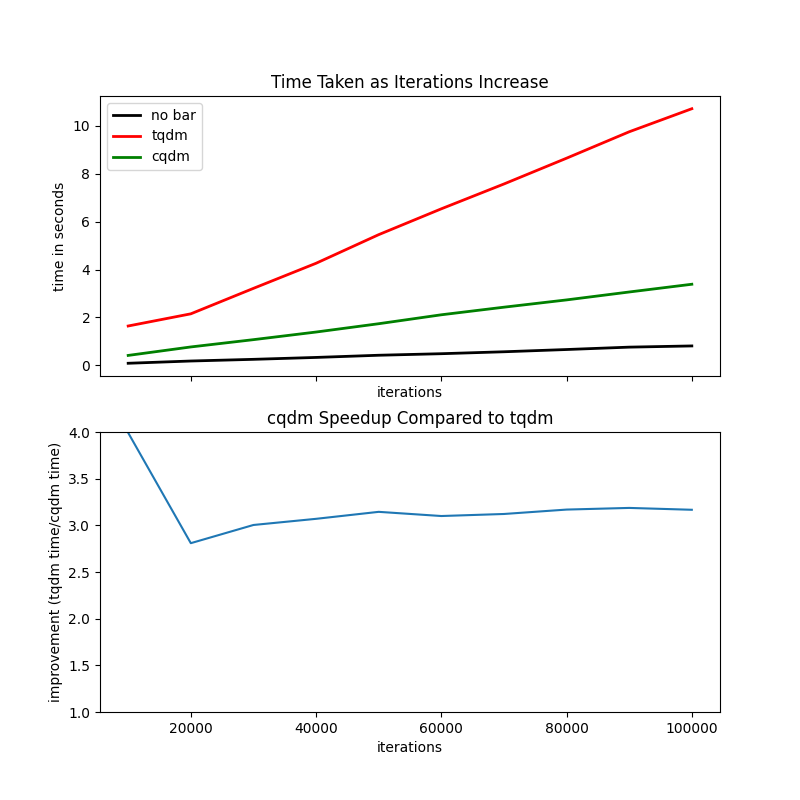
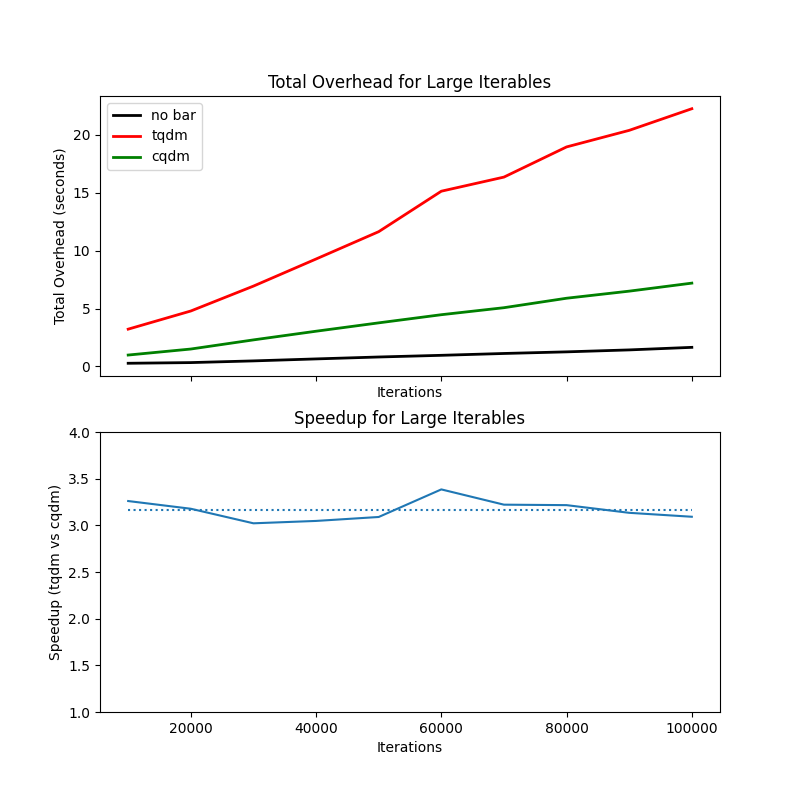
Update graph

diff --git a/performance.py b/performance.py
@@ -3,7 +3,6 @@ import tqdm
 import dis
 
 import timeit
-import time
 
 import matplotlib.pyplot as plt
 
@@ -46,21 +45,20 @@ def test_cqdm(n, q):
 
 MAX_ITER = 10
 N = 10_000
-Q = 500
+Q = 1_000
 
 nop_times = []
 tqdm_times = []
 cqdm_times = []
 iterations = []
 
-for i in range(MAX_ITER):
-    inc = i + 1
-    nop_times.append(test_nop(N * inc, Q))
+for i in range(1, MAX_ITER + 1):
+    nop_times.append(test_nop(N * i, Q))
 
-    tqdm_times.append(test_tqdm(N * inc, Q))
-    cqdm_times.append(test_cqdm(N * inc, Q))
+    tqdm_times.append(test_tqdm(N * i, Q))
+    cqdm_times.append(test_cqdm(N * i, Q))
 
-    iterations.append(N * inc)
+    iterations.append(N * i)
 
 a = test_tqdm(N, Q)
 b = test_cqdm(N, Q)
@@ -68,9 +66,9 @@ print(f"Speedup: {a / b:.3}x")
 
 fig, (ax1, ax2) = plt.subplots(2, 1, sharex=True, figsize=(8, 8))
 
-ax1.set_title("Time Taken as Iterations Increase")
-ax1.set_xlabel("iterations")
-ax1.set_ylabel("time in seconds")
+ax1.set_title("Total Overhead for Large Iterables")
+ax1.set_xlabel("Iterations")
+ax1.set_ylabel("Total Overhead (seconds)")
 
 ax1.plot(iterations, nop_times, "k-", linewidth=2, label="no bar")
 ax1.plot(iterations, tqdm_times, "r-", linewidth=2, label="tqdm")
@@ -80,12 +78,16 @@ improvement = []
 for i in range(MAX_ITER):
     improvement.append(tqdm_times[i] / cqdm_times[i])
 
-ax2.set_title("cqdm Speedup Compared to tqdm")
-ax2.set_xlabel("iterations")
-ax2.set_ylabel("improvement (tqdm time/cqdm time)")
+average = sum(improvement) / MAX_ITER
+average = [average] * len(improvement)
+
+ax2.set_title("Speedup for Large Iterables")
+ax2.set_xlabel("Iterations")
+ax2.set_ylabel("Speedup (tqdm vs cqdm)")
 ax2.set_ylim(1.0, 4.0)
 
-ax2.plot(iterations, improvement)
+ax2.plot(iterations, improvement, color="#1f77b4")
+ax2.plot(iterations, average, ":", color="#1f77b4")
 
 legend = ax1.legend(loc="upper left")
 
